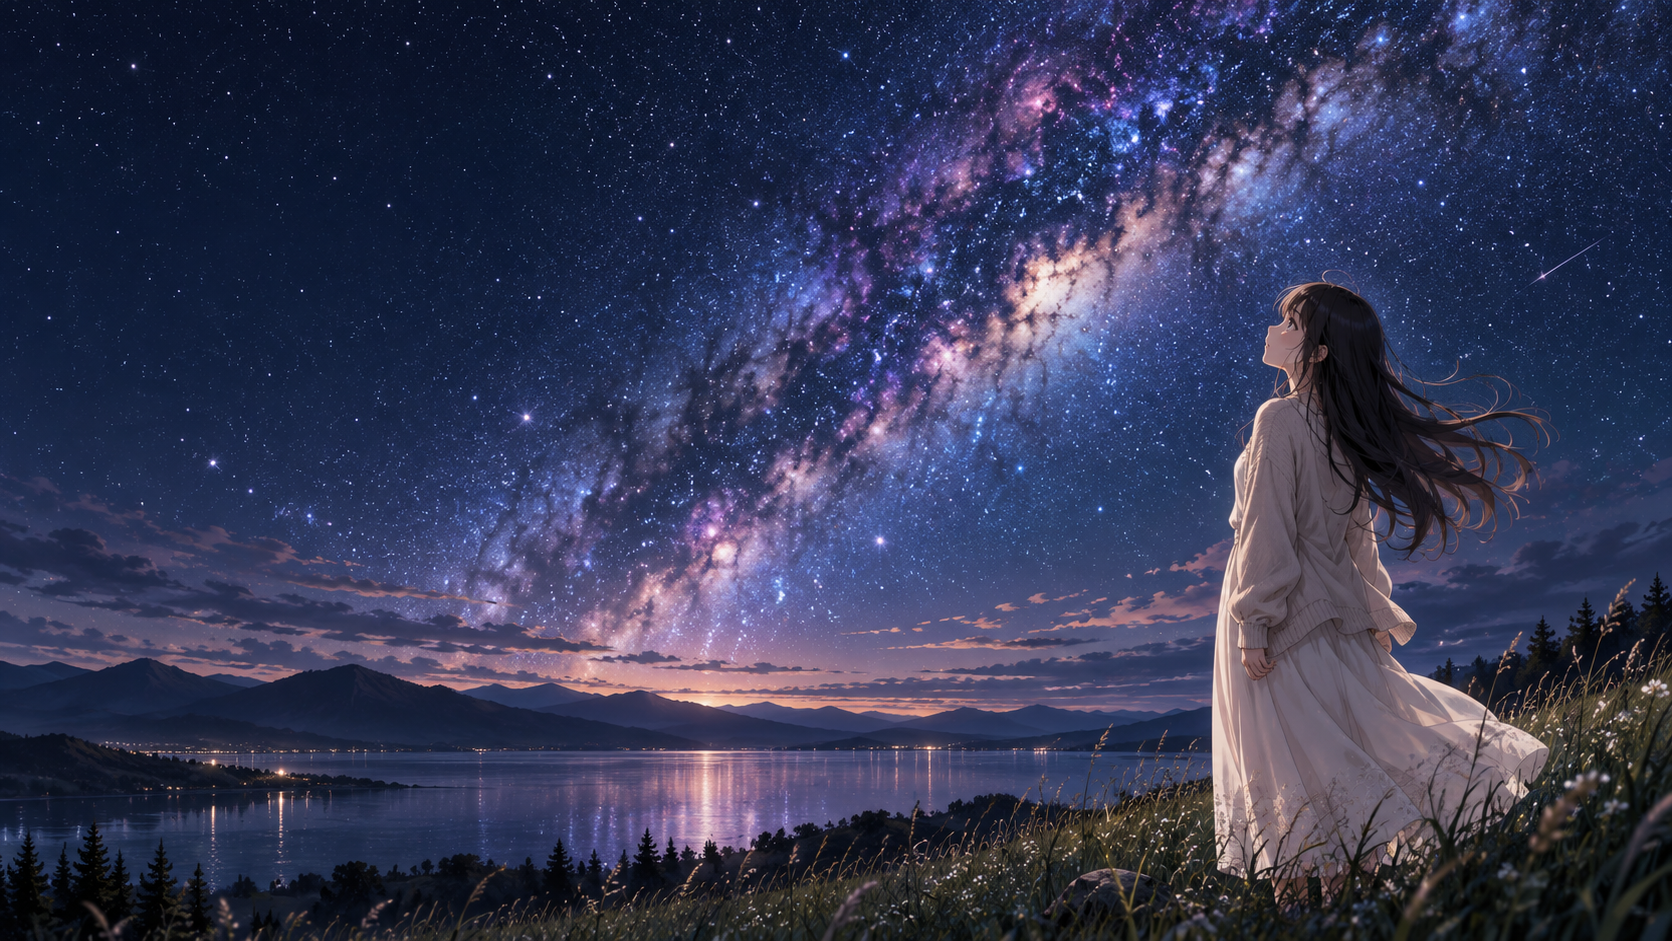
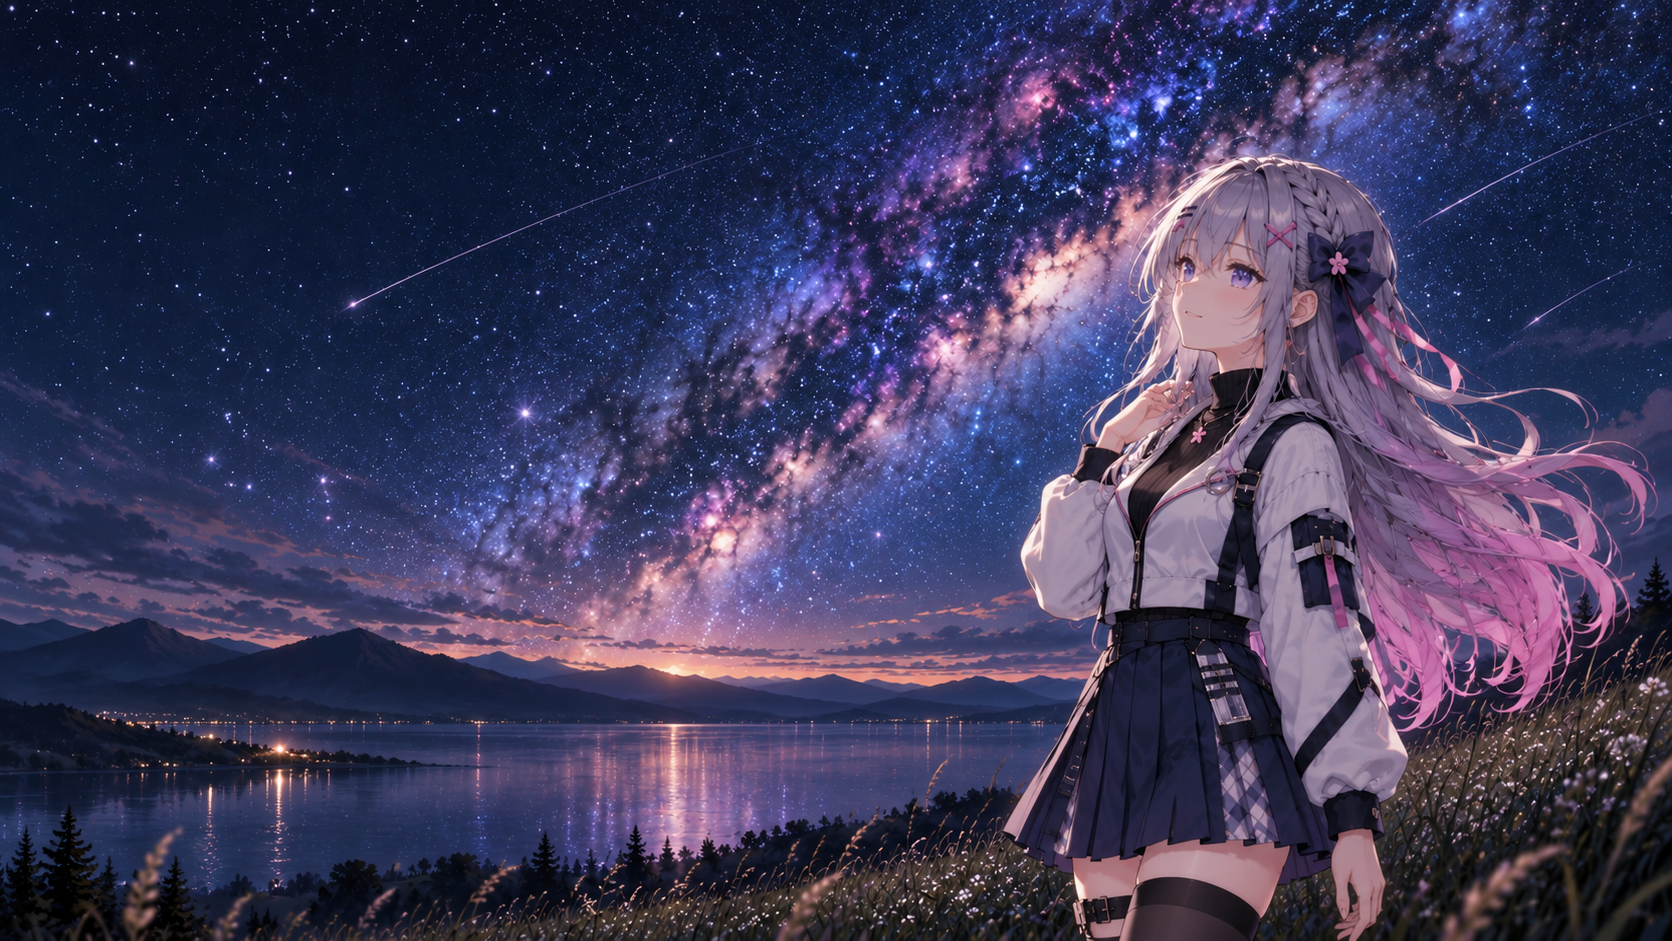
feat(desktop): unify character artwork across startup and welcome screens

diff --git a/apps/desktop/src/viewer/data_center_dialog.cpp b/apps/desktop/src/viewer/data_center_dialog.cpp
@@ -11,6 +11,7 @@
 #include <QLabel>
 #include <QListWidget>
 #include <QPainter>
+#include <QPixmap>
 #include <QProgressBar>
 #include <QPushButton>
 #include <QScreen>
@@ -29,6 +30,46 @@
 
 namespace orbitforge::desktop {
 namespace {
+class DataCenterArtwork final : public QWidget {
+  public:
+    DataCenterArtwork() : artwork_(":/orbitforge/artwork/data-preparation.png") {
+        setObjectName("dataCenterArtwork");
+        setMinimumHeight(112);
+        setSizePolicy(QSizePolicy::Expanding, QSizePolicy::Preferred);
+    }
+
+  protected:
+    void paintEvent(QPaintEvent *) override {
+        QPainter painter(this);
+        painter.setRenderHint(QPainter::SmoothPixmapTransform);
+        painter.fillRect(rect(), QColor("#111a30"));
+        if (!artwork_.isNull()) {
+            // Keep the full head visible; narrow windows crop only the quiet left side.
+            const auto ratio = devicePixelRatioF();
+            const auto pixels = qRound(height() * ratio);
+            if (scaled_artwork_.height() != pixels || scaled_artwork_.devicePixelRatio() != ratio) {
+                scaled_artwork_ = artwork_.scaledToHeight(pixels, Qt::SmoothTransformation);
+                scaled_artwork_.setDevicePixelRatio(ratio);
+            }
+            const auto left = width() - scaled_artwork_.width() / ratio;
+            painter.drawPixmap(QPointF(left, 0), scaled_artwork_);
+            QLinearGradient blend(left, 0, left + height(), 0);
+            blend.setColorAt(0, QColor("#111a30"));
+            blend.setColorAt(1, QColor(17, 26, 48, 0));
+            painter.fillRect(QRectF(left, 0, height(), height()), blend);
+        }
+        QLinearGradient shade(0, 0, width(), 0);
+        shade.setColorAt(0, QColor(15, 23, 40, 245));
+        shade.setColorAt(0.5, QColor(15, 23, 40, width() < 620 ? 210 : 100));
+        shade.setColorAt(1, QColor(15, 23, 40, width() < 620 ? 90 : 0));
+        painter.fillRect(rect(), shade);
+    }
+
+  private:
+    QPixmap artwork_;
+    QPixmap scaled_artwork_;
+};
+
 QString installation_text(const DataInventoryItem &item) {
     switch (item.installation) {
     case DataInstallation::missing:
@@ -201,25 +242,28 @@ void show_data_center(QWidget *parent, EopCatalog &catalog) {
     auto *layout = new QVBoxLayout(&dialog);
     layout->setContentsMargins(0, 0, 0, 0);
     layout->setSpacing(0);
-    auto *heading = new QVBoxLayout;
+    auto *artwork = new DataCenterArtwork;
+    auto *heading = new QVBoxLayout(artwork);
     heading->setContentsMargins(24, 16, 24, 14);
     heading->setSpacing(6);
     auto *heading_title = new QLabel(QStringLiteral("数据中心"));
     heading_title->setObjectName("panelTitle");
     auto *heading_row = new QHBoxLayout;
-    heading_row->addWidget(heading_title, 1);
+    heading_row->addWidget(heading_title);
     auto *back = new QPushButton(QStringLiteral("数据列表"), &dialog);
     back->setObjectName("dataBackToList");
     back->setIcon(workbench_icon(WorkbenchIcon::database));
     back->hide();
     heading_row->addWidget(back);
+    heading_row->addStretch();
     heading->addLayout(heading_row);
     auto *description =
         new QLabel(QStringLiteral("管理计算数据，查看下载时间、覆盖范围与更新结果。"));
     description->setObjectName("dialogDescription");
     description->setWordWrap(true);
+    description->setMaximumWidth(600);
     heading->addWidget(description);
-    layout->addLayout(heading);
+    layout->addWidget(artwork);
     auto *panels = new QHBoxLayout;
     panels->setSpacing(0);
     auto *sidebar = new QWidget;

diff --git a/apps/desktop/src/viewer/welcome_page.cpp b/apps/desktop/src/viewer/welcome_page.cpp
@@ -15,7 +15,7 @@ namespace orbitforge::desktop {
 namespace {
 class WelcomeArtwork final : public QWidget {
   public:
-    WelcomeArtwork() : artwork_(":/orbitforge/startup/star-gazing.png") {
+    WelcomeArtwork() : artwork_(":/orbitforge/artwork/orbital-welcome.png") {
         setMinimumHeight(460);
         setMaximumHeight(540);
         setSizePolicy(QSizePolicy::Expanding, QSizePolicy::Expanding);
@@ -47,8 +47,8 @@ class WelcomeArtwork final : public QWidget {
                 std::max(width() / double(artwork_.width()), height() / double(artwork_.height()));
             const QSizeF source_size(width() / scale, height() / scale);
             const QRectF source((artwork_.width() - source_size.width()) * 0.78,
-                                (artwork_.height() - source_size.height()) / 2, source_size.width(),
-                                source_size.height());
+                                (artwork_.height() - source_size.height()) * 0.15,
+                                source_size.width(), source_size.height());
             painter.drawPixmap(bounds, artwork_, source);
         }
         QLinearGradient shade(0, 0, width(), 0);

diff --git a/docs/architecture/scenario_workbench.md b/docs/architecture/scenario_workbench.md
@@ -21,7 +21,7 @@
 
 启动页提供“打开项目”和“打开二体示例”。场景菜单及工具栏支持 `.orbitforge` 文件的打开、保存和另存为；保存已应用的场景设置、对象输入、对象显示设置、当前时刻和数据版本引用，未应用的属性草稿不自动提交。新建、打开和退出前可保存、放弃或取消未保存的更改。打开失败保留原场景。格式、Python 互通与资源依赖见[项目文件](project_files.md)。
 
-桌面采用统一的蓝灰底色、冰蓝色主操作与少量樱粉点缀；欢迎页的星空装饰保持静态。对象树区分悬停、选中与键盘焦点，报告、数据中心和时间轴沿用相同层级。欢迎页在窄窗口中纵向排列操作，空间不足时滚动，三个入口均支持键盘操作。
+桌面采用统一的蓝灰底色、冰蓝色主操作与少量樱粉点缀。启动画面、欢迎页和数据中心分别使用同一银紫粉渐变发色角色的湖畔星夜、轨道观测与观测站插画，均为内嵌静态资源；文字由 Qt 绘制。欢迎页为文字和按钮保留左侧空间，数据中心横幅保留完整人物头部，窄窗口只裁切插画左侧。对象树区分悬停、选中与键盘焦点，报告、数据中心和时间轴沿用相同层级。欢迎页在窄窗口中纵向排列操作，空间不足时滚动，三个入口均支持键盘操作。
 
 ### 修改已有场景
 
